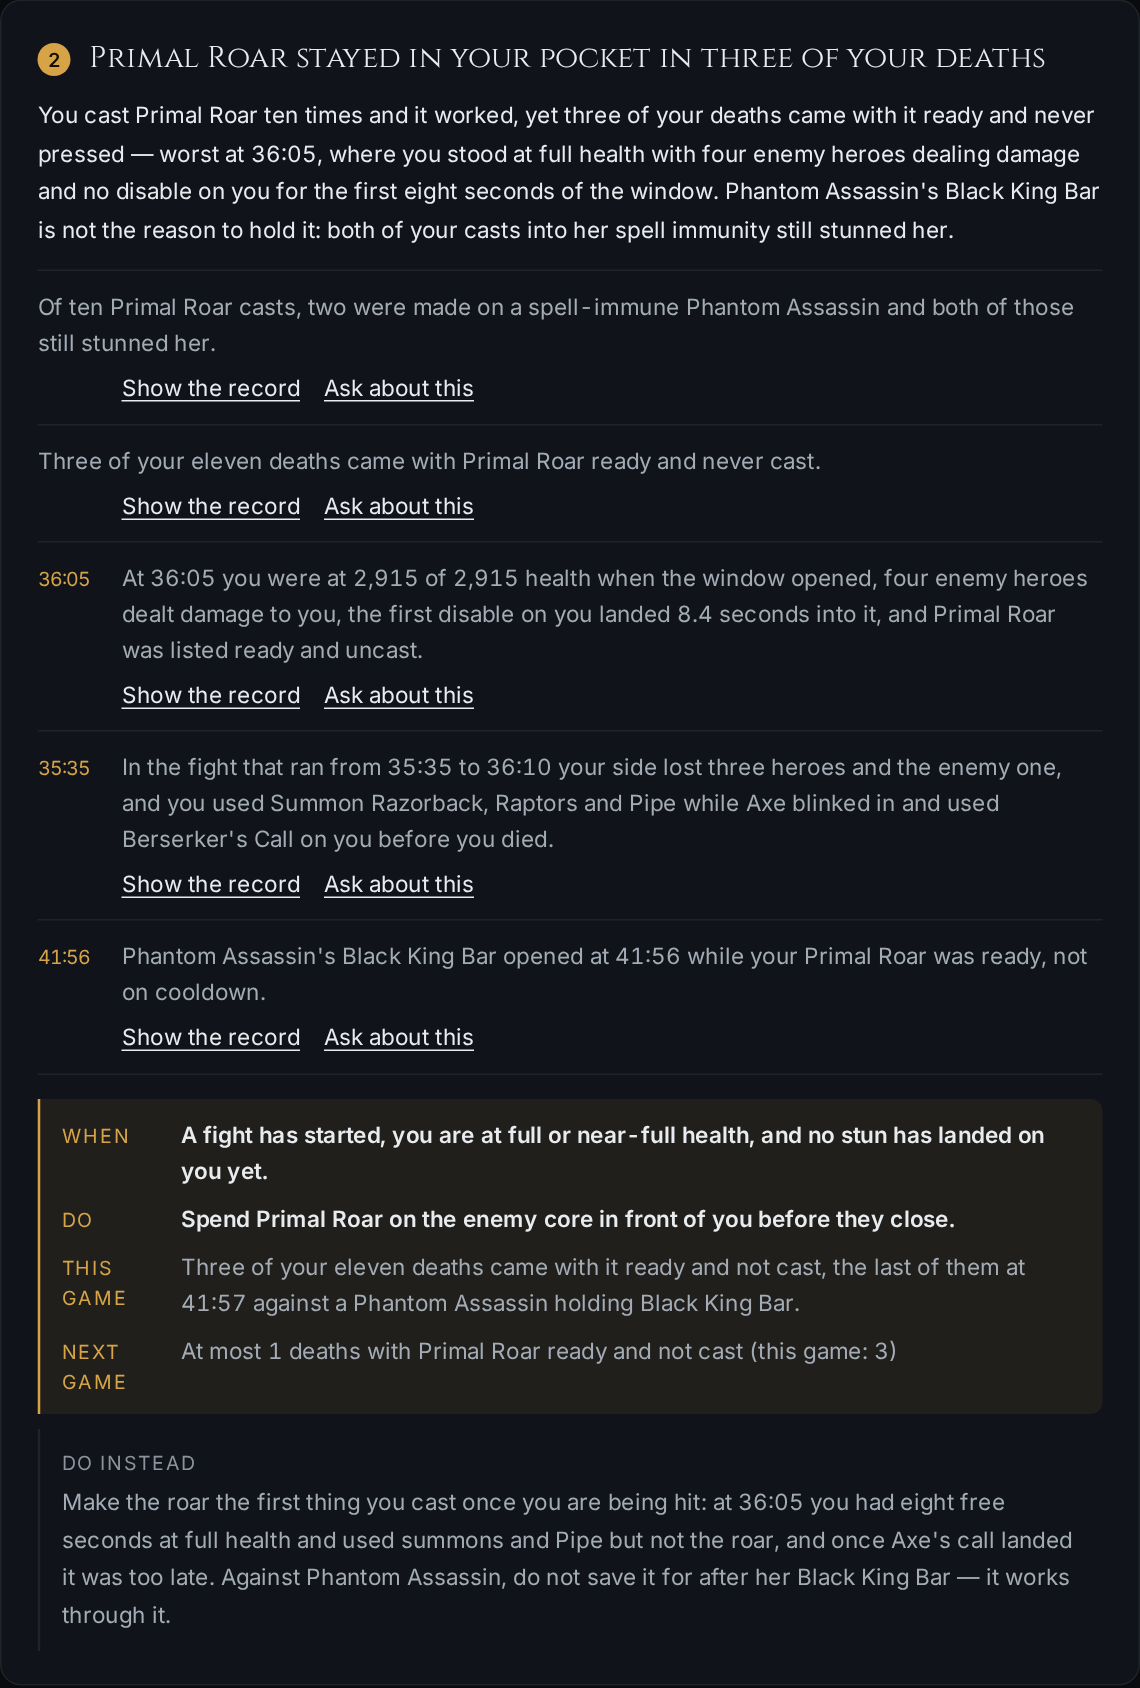
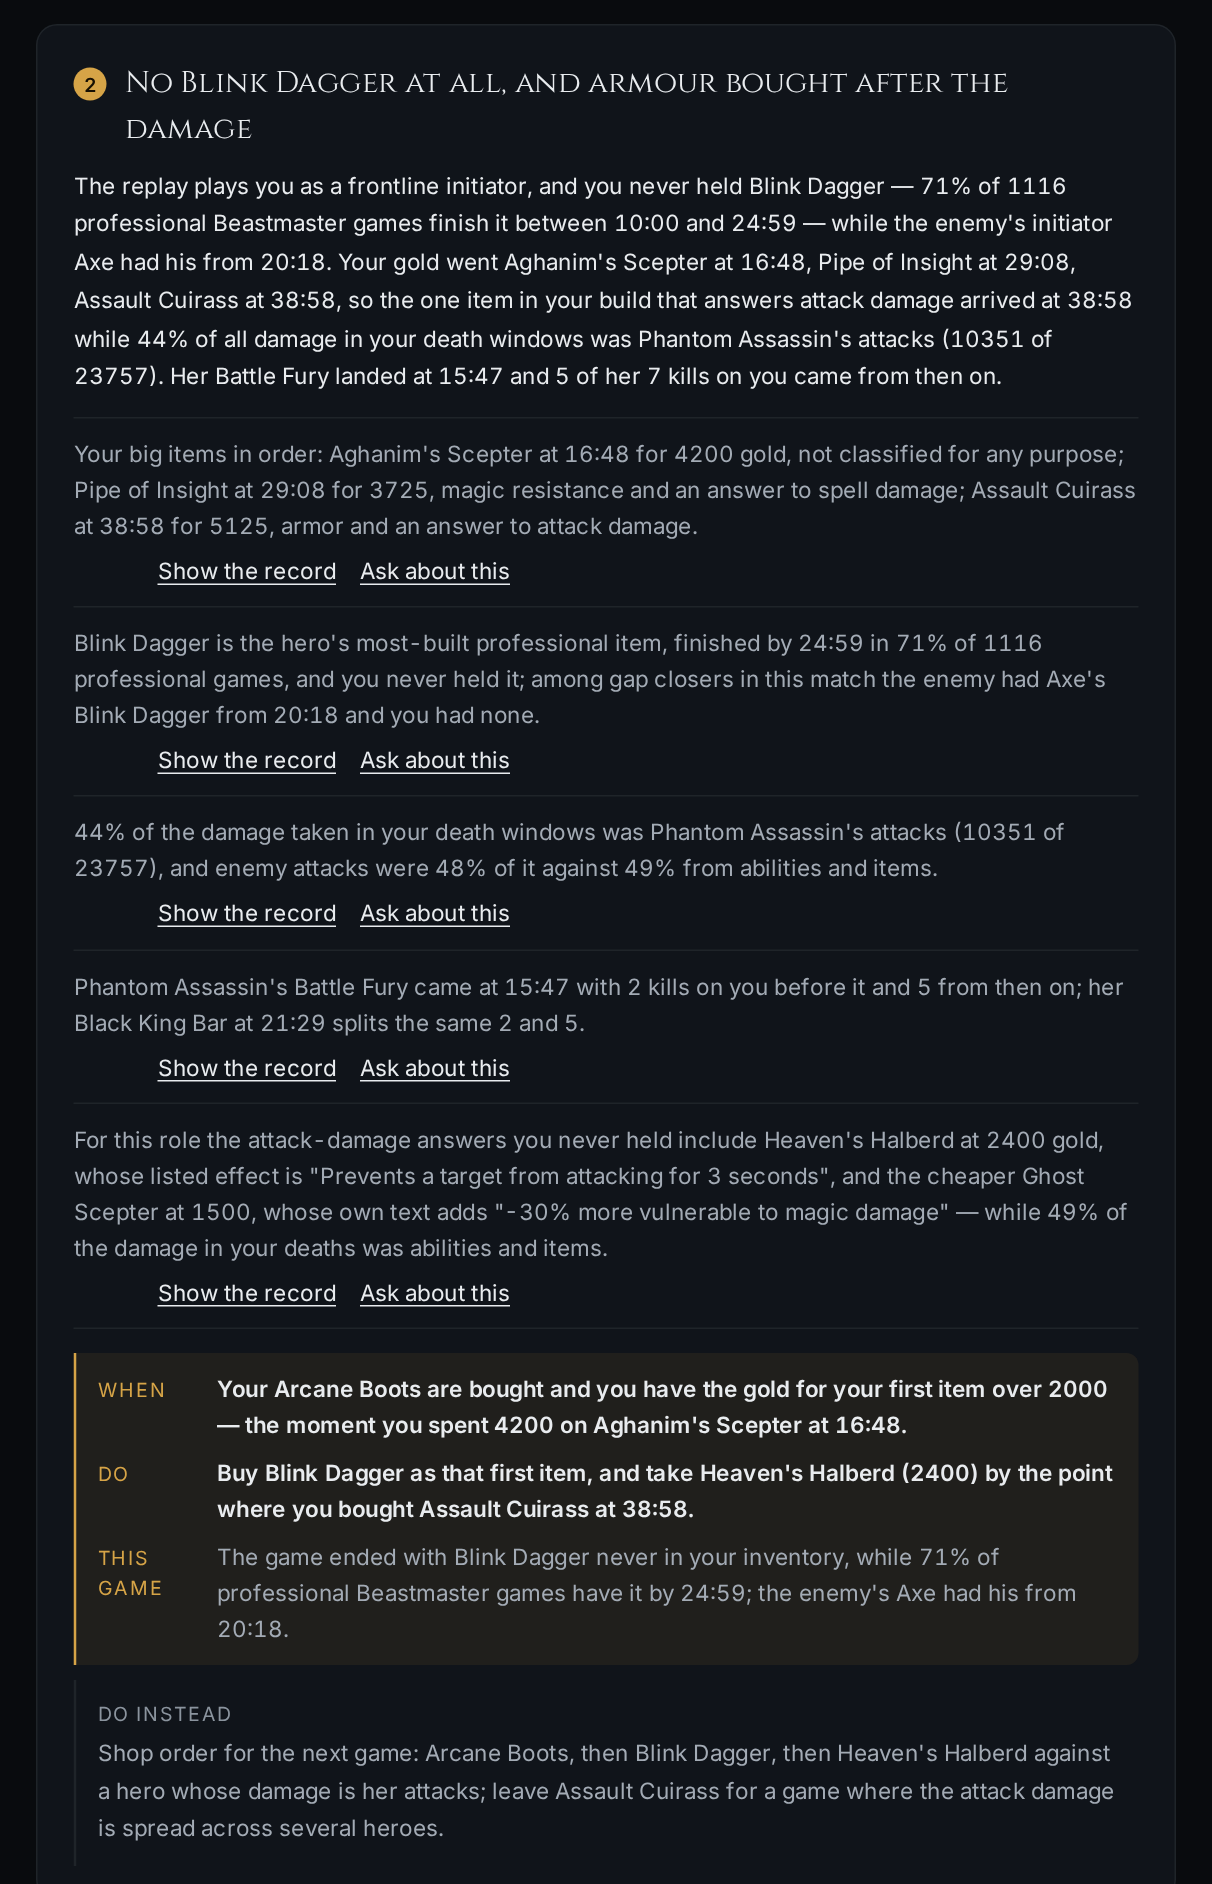
docs: README brought up to what the review does now — scoreboard, your plan, patch-true numbers, 16 tools
New screenshots from the live review of 9100904020 (verdict with the
scoreboard, and one finding), English and Chinese.

Changed region(s): [[0.0307, 0.3389, 0.9518, 0.9858], [0.0307, 0.0, 0.9518, 0.3081], [0.8904, 0.7085, 0.9211, 0.7393]]

diff --git a/README.md b/README.md
@@ -12,99 +12,118 @@
 
 <br>
 
-<a href="https://dota2.ai/r/9100904020?hero=beastmaster"><img src="docs/assets/review-verdict.png" alt="A review on dota2.ai: one verdict, the fights of the game on a timeline, and a coach to ask" width="100%"></a>
+<a href="https://dota2.ai/r/9100904020?hero=beastmaster"><img src="docs/assets/review-verdict.png" alt="A review on dota2.ai: the verdict, the scoreboard with both line-ups, items and the gold lead, and a coach to ask" width="100%"></a>
 
 </div>
 
 <br>
 
-Paste a match ID, pick the hero you played, and wait two to three minutes. The coach fetches the replay, goes through it with a set of lookup tools — every death, every ultimate, the fights, your build — and writes a review for one player: **one verdict, at most three things that decided the game, and what to do about each next time.**
+Paste a match ID and pick the hero you played. Two or three minutes later you have a review written for you alone: **one verdict, at most three things that decided the game, and what to do about each next time.**
 
-Then code checks the review against the replay. Every clock time, every number and every cited record has to be in what the tools actually returned. What is not gets sent back once, and is removed if it still cannot be backed.
+There is no opinion in it that the replay cannot back. An agent goes through the game with lookup tools — every death, every cast of your key ability, the fights, both teams' items — and then ordinary code checks every time, number and cited record against what those tools returned. What does not hold up is sent back once, and removed if it still does not.
 
-## What a finding looks like
+## What you get
 
-<img align="right" width="42%" src="docs/assets/review-finding.png" alt="One finding: the claim, five pieces of evidence with game times, a rule for next game, and what to do instead">
+<img align="right" width="44%" src="docs/assets/review-finding.png" alt="One finding: the claim, its evidence with game times and records, a rule for next game, and what to do instead">
 
 This is finding 2 of 3 from [match 9100904020](https://dota2.ai/r/9100904020?hero=beastmaster), unedited.
 
-**A claim about your play.** Not "play safer" — *three of your eleven deaths came with Primal Roar ready and never pressed*.
+**A claim about your play.** Not "itemize better" — *you never held Blink Dagger, which 71% of 1,116 professional Beastmaster games finish by 24:59, while 44% of the damage in your deaths was Phantom Assassin's attacks.*
 
-**The evidence, each with its record.** Every line cites the replay record it comes from. *Show the record* opens it: the twelve seconds before a death, one cast of an ability, a fight second by second.
+**Evidence, each line with its record.** *Show the record* opens what the line was read from: the twelve seconds before a death, every cast of an ability, one fight second by second, a build against what killed you.
 
-**A rule you can keep.** *When* a fight has started and no stun has landed on you, *do* spend the roar first. Small enough to remember mid-game.
+**A rule you can keep.** *When* you can see it on your own screen, *do* one thing. Small enough to remember mid-game.
 
-**A count for next time.** "At most 1 death with Primal Roar ready and not cast (this game: 3)." Open your next game and the coach counts the same thing in that replay.
+**A check for next time.** Finding 3 of the same review counts *three of your eleven deaths with Primal Roar ready and never cast*. Take it as your goal, and the coach counts the same thing in your next replay.
 
 **A coach you can argue with.** Ask about any line. It goes back to the replay before it answers, and its answer is checked the same way.
 
+<br clear="right">
+
 Around the findings, every review also has:
 
-- **How the game went** — the fights on a timeline, with the one where it turned;
-- **The game plan** — who took the map, and whether won fights became buildings;
+- **The scoreboard** — both line-ups with level, K/D/A, last hits, net worth, damage and items, and the gold lead minute by minute (from the replay itself when no match parse exists);
+- **How the game went** — the fights on a timeline, and the one where it turned;
+- **The game plan** — when each side had its chance, and whether won fights became buildings;
+- **Your plan, if you name it** — say before the review whether you were pushing, ganking, split-pushing or farming for late, and the review reads the game against that;
 - **What you did well**, held to the same evidence;
 - **What the replay could not show**, listed instead of guessed.
 
-<br clear="right">
+Prices, item effects and cooldowns are those of the release the game was played on (7.41b, 7.41c, 7.42 …), not today's.
 
 ## How it works
 
 ```mermaid
 flowchart LR
-    R["Replay<br/>.dem file"] --> T["Trace<br/>~250 KB of events"]
+    R["Replay<br/>.dem file"] --> T["Trace<br/>~250 KB"]
     T --> A["Agent<br/>investigates"]
-    A <--> L["11 lookup tools"]
+    A <--> L["16 lookup tools"]
     A --> V{"Verifier<br/>code, not a model"}
     V -- "unsupported:<br/>one repair round" --> A
     V -- "backed" --> D["Review"]
 ```
 
-**1. The replay becomes a trace.** A worker downloads the replay and extracts what happened: positions, casts, damage, deaths, items, buildings. The result is a compact file the tools can query in milliseconds.
+**1. The replay becomes a trace.** A worker downloads the replay and extracts what happened — positions, casts, damage, deaths, purchases, buildings, each hero's net worth — into a compact file the tools query in milliseconds.
 
-**2. An agent investigates.** The model is given a method, not conclusions. It decides what to look up, and can only learn about the game through tools:
+**2. An agent investigates.** The model is given a method, not conclusions, and learns about the game only through tools.
+
+<details>
+<summary><b>The 16 tools</b></summary>
+
+From the replay:
 
 | Tool | What it answers |
 |---|---|
 | `match_overview` | Line-ups, every fight and who lost fewer heroes, when each building fell |
-| `death_context` | The seconds before each death: who was near, health, what was ready and not used, who dealt the damage |
-| `ability_audit` | Every cast of one ability: target, whether it was spell immune, what the cast achieved |
-| `immunity_windows` | Each Black King Bar window, and what your key ability was doing when it opened |
+| `death_context` | The seconds before each death: who was near, health, what was ready and not used, whose damage it was |
+| `ability_audit` | Every cast of one ability: target, spell immunity, what the cast achieved |
+| `immunity_windows` | Each Black King Bar window, and what your key ability did while it lasted |
 | `fight_timeline` | A stretch of the game second by second, with where all ten heroes stood |
 | `item_timeline` | When a hero first held each item |
-| `lane_report` | The first ten minutes: last hits, gold, deaths, and how the matchup usually goes |
 | `tempo_report` | Ten-minute stretches: buildings, fights, whether a fight led to a building, where you were |
-| `hero_abilities` | Valve's data: what an ability does, whether it goes through spell immunity |
+
+Around it:
+
+| Tool | What it answers |
+|---|---|
+| `window_report` | When each side was ahead, and what it took — and finished — while it was |
+| `farm_report` | What the other side was doing while your team had its chance |
+| `power_spikes` | When each hero got their levels and big items, and how often they killed you before and after |
+| `build_check` | Your items in order against what actually killed you |
+| `build_for_plan` | Whether your items served the plan you went for |
+| `lane_report` | The first ten minutes: last hits, gold, deaths, and how the matchup usually goes |
+| `hero_abilities` | Valve's data for the game's release: what an ability does, whether it pierces immunity |
 | `pro_item_choices` | What professionals build on this hero, and against these enemies |
-| `lineup_timing` | Which of the ten heroes win more in short or in long games |
+| `lineup_timing` | Which of the ten heroes win more in short games or in long ones |
 
-**3. Code checks the result.** The verifier is ordinary code with no model in it:
+</details>
 
-- every clock time must be a time some tool returned;
-- every number of 100 or more, every decimal and every count must be in a tool result;
-- each evidence line must be found *inside the record it cites*, so a real number cannot be attached to the wrong moment;
-- a statement about who could see whom is never accepted, because a replay holds no fog of war.
+**3. Code checks the result.** The verifier has no model in it:
 
-The model gets one round to repair what fails. After that, an unsupported sentence is removed, an unsupported evidence line is removed, and a finding with nothing left to stand on is removed. The page says how many were.
+- every clock time must be one some tool returned;
+- every number of 100 or more, every decimal, percentage and count must be in a tool result;
+- each evidence line must be found *inside the record it cites*, so a real number cannot be pinned to the wrong moment;
+- a claim about who could see whom is never accepted — a replay holds no fog of war.
+
+The model gets one round to repair what fails. Then an unsupported sentence goes, an unsupported evidence line goes, and a finding with nothing left to stand on goes. The page says how many did.
 
 ## What it cannot see
 
-A replay does not contain everything, and the review says so instead of guessing.
+A replay does not hold everything, and the review says so instead of guessing.
 
 - **No vision.** Fog of war and wards are not in the data. The coach states distances and positions, never what you could see.
 - **No creep waves.** Where you stood in a lane is known; what the wave was doing is not.
 - **Only item-based spell immunity** is tracked, and Roshan timings are not reliable.
-- **Replays expire.** Valve keeps them for about two weeks. Without a replay there is nothing to review honestly, so nothing is shown in its place.
+- **Replays expire.** Valve keeps them for about two weeks. Without one there is nothing to review honestly, so nothing is shown in its place.
 - **It is a language model.** The verifier checks facts, not judgment. A finding can be true and still not be the most important thing about your game.
 
 ## Use it
 
-**On the web.** Open [dota2.ai](https://dota2.ai) and paste a match ID, or a Steam friend code to list your recent games. English and Chinese.
-
-The CLI and the MCP server give the instant, rule-based tier: a sectioned report from match data, pro games on the same problem, hero matchups and next-game goals. Neither needs an API key.
+**On the web.** Open [dota2.ai](https://dota2.ai), paste a match ID or a match link from OpenDota, Dotabuff or STRATZ — or a Steam friend code to list your recent games. English and Chinese. The home page also has a patch advisor: what 7.42 changed, and how a hero has done since.
 
 ### One line for your agent
 
-The hosted MCP server needs no install and no key. One line connects it:
+The hosted MCP server needs no install and no key:
 
 | Agent | Run this once |
 |---|---|
@@ -113,17 +132,17 @@ The hosted MCP server needs no install and no key. One line connects it:
 | **Gemini CLI** | `gemini mcp add --transport http dota2ai https://dota2.ai/mcp` |
 | **VS Code** (Copilot) | `code --add-mcp '{"name":"dota2ai","type":"http","url":"https://dota2.ai/mcp"}'` |
 | **Cursor** | [Add to Cursor](https://cursor.com/en/install-mcp?name=dota2ai&config=eyJ1cmwiOiJodHRwczovL2RvdGEyLmFpL21jcCJ9), or put `{ "mcpServers": { "dota2ai": { "url": "https://dota2.ai/mcp" } } }` in `~/.cursor/mcp.json` |
-| **Any other MCP client** | Give it the address `https://dota2.ai/mcp` (Streamable HTTP) |
+| **Any other MCP client** | Give it `https://dota2.ai/mcp` (Streamable HTTP) |
 
-Then say it in one sentence:
+Then one sentence:
 
 > Review my Dota 2 match 9100904020 — I played Beastmaster.
 
-No MCP in your agent? Any agent that can fetch a URL works with this instead:
+No MCP? Any agent that can fetch a URL works with this instead:
 
 > Review my Dota 2 match 9100904020, I played Beastmaster. Call the API described at https://dota2.ai/llms.txt, quote only what it returns, and say when a sample is too small.
 
-The server has 8 tools ([reference](packages/mcp/README.md)). To run it locally over stdio instead, use `node /absolute/path/to/dota2.ai/packages/mcp/bin/dota2ai-mcp.js` as the command. There is also an agent skill at [`packages/cli/skills/dota2ai-coach`](packages/cli/skills/dota2ai-coach/SKILL.md).
+The server's 8 tools — `review_match`, `get_evidence`, `recent_matches`, `coach_report`, `coach_cases`, `coach_ask`, `goal_check`, `hero_matchup` — are the instant, rule-based tier: a sectioned report from match data, pro games on the same problem, matchups and next-game goals ([reference](packages/mcp/README.md)). To run it locally over stdio, use `node /absolute/path/to/dota2.ai/packages/mcp/bin/dota2ai-mcp.js`. There is also an agent skill at [`packages/cli/skills/dota2ai-coach`](packages/cli/skills/dota2ai-coach/SKILL.md).
 
 ### From a terminal
 
@@ -135,11 +154,11 @@ node packages/cli/bin/dota2ai.js coach 9091400302 --hero tidehunter --section wh
 node packages/cli/bin/dota2ai.js matchup tidehunter ursa --rank legend
 ```
 
-Every command takes `--lang en|zh` and `--json`. Full reference: [`packages/cli/README.md`](packages/cli/README.md).
+Every command takes `--lang en|zh` and `--json`, and none needs a key. Full reference: [`packages/cli/README.md`](packages/cli/README.md).
 
-### Query a replay yourself
+### Ask a replay yourself
 
-The repository includes the trace of the match shown above, so the same tools the agent uses run offline:
+The trace of the match above ships with the repository, so the agent's replay tools run offline:
 
 ```bash
 T=packages/review-engine/test/fixtures/trace-9100904020.json.gz
@@ -180,24 +199,24 @@ npm run start:dev        # Vite on :5173, Express on :8080
 | `AGENT_BUCKET`, `TRACE_WORKER_URL` | Parsing on a separate worker, with storage in a bucket |
 | `OPENDOTA_API_KEY`, `STRATZ_API_TOKEN` | Higher rate limits and a second source for match data |
 
-The replay extractor is built from a companion repository and is not included here. Production setup — the worker, the queue that lets a review outlive a deploy, limits and costs — is in [`docs/AGENT_PIPELINE.md`](docs/AGENT_PIPELINE.md).
+The replay extractor is built from a companion repository and is not included here. Production — the worker, the queue that lets a review outlive a deploy, limits and costs — is described in [`docs/AGENT_PIPELINE.md`](docs/AGENT_PIPELINE.md).
 
 ```text
-lib/agent/                       the review agent: loop, tools, verifier, jobs, chat
-packages/review-engine/src/trace the trace format and the lookup tools (pure, no network)
-lib/coach/                       the rule-based engine behind the CLI and MCP
-src/agent/, src/coach/           the review page; the home and player pages
-packages/cli/, packages/mcp/     the CLI and the MCP server
-server.js                        the Express host
+lib/agent/                        the review agent: loop, tools, verifier, jobs, chat
+packages/review-engine/src/trace  the trace format and the replay tools (pure, no network)
+lib/coach/                        the rule-based engine behind the CLI and MCP
+src/agent/, src/coach/            the review page; the home and player pages
+packages/cli/, packages/mcp/      the CLI and the MCP server
+server.js                         the Express host
 ```
 
-Before a pull request, the same gate CI runs:
+Before a pull request, the gate CI runs:
 
 ```bash
 npx tsc --noEmit && node --check server.js && npm run build && npm test
 ```
 
-See [`CONTRIBUTING.md`](CONTRIBUTING.md) and [`AGENTS.md`](AGENTS.md).
+See [`CONTRIBUTING.md`](CONTRIBUTING.md) and [`AGENTS.md`](AGENTS.md). A game where the review got it wrong is the most useful thing you can send: [#164](https://github.com/qianhaoq/dota2.ai/issues/164).
 
 ## License
 
